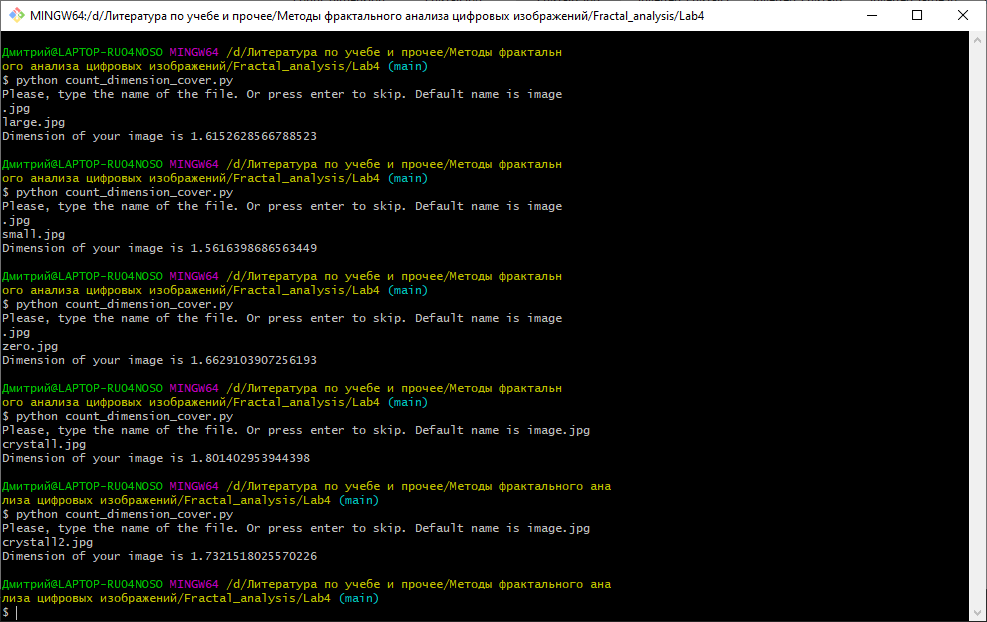
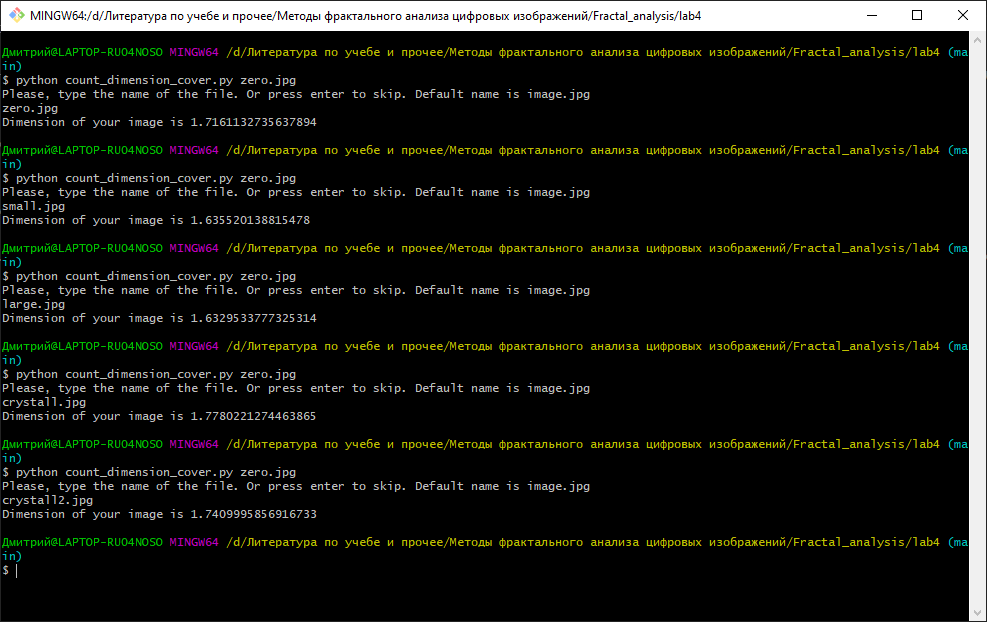
Add Lab5

diff --git a/Lab5/build_sergemtation.py b/Lab5/build_sergemtation.py
@@ -1,8 +1,13 @@
-from PIL import Image
+from PIL import Image, ImageDraw
 import numpy as np
 
-CELL_SIZE = 32
 delta = [1, 2]
+CELL_SIZE = 20
+
+def convert_image(image, converted_file_name):
+    black_and_white = image.convert('1')
+    black_and_white.save(converted_file_name)
+    return black_and_white
 
 def get_A(cell, ds):
     length, width = cell.size[0], cell.size[1]
@@ -29,35 +34,30 @@ def get_A(cell, ds):
     for d in ds:
         A[d] = (v[d] - v[d-1]) / 2
     
-    return A
+    return A[delta[-1]]
 
-
-def count_dimension_cover(image):
+def build_segmentation(image, save_file_name):
     length, width = image.size[0], image.size[1]
     cell_length, cell_width = length//CELL_SIZE, width//CELL_SIZE
-    A = np.zeros((cell_length, cell_width, len(delta)+1))
+    A = np.zeros((cell_length, cell_width))
     for i in range(0, cell_length):
         for j in range(0, cell_width):
             area = (i*CELL_SIZE, j*CELL_SIZE, (i+1)*CELL_SIZE, (j+1)*CELL_SIZE)
             cell = image.crop(area)
-            for d in delta:
-                A[i][j][d] = get_A(cell, delta)[d]
-
+            A[i][j] = get_A(cell, delta)
     
-    As = []
-    for d in delta:
-        s = 0
-        for i in range(0, cell_length):
-            for j in range(0, cell_width):
-                s += A[i][j][d]
-        As.append(s)
-        
-    return 2 - np.polyfit(np.log(As), np.log(delta), 1)[0] * (-1)
+    mean = np.mean(A)
 
-def convert_image(image, converted_file_name):
-    black_and_white = image.convert('L')
-    black_and_white.save(converted_file_name)
-    return black_and_white
+    new_image = Image.new("L", (cell_length*CELL_SIZE, cell_width*CELL_SIZE))
+    img1 = ImageDraw.Draw(new_image)
+
+    for i in range(0, cell_length):
+        for j in range(0, cell_width):
+            if A[i][j] < mean:
+                img1.rectangle([(i*CELL_SIZE, j*CELL_SIZE), ((i+1)*CELL_SIZE, (j+1)*CELL_SIZE)], fill = "white", outline="white")
+            else:
+                img1.rectangle([(i*CELL_SIZE, j*CELL_SIZE), ((i+1)*CELL_SIZE, (j+1)*CELL_SIZE)], fill = "black", outline="black")
+    new_image.save(save_file_name)
 
 
 if __name__ == '__main__':
@@ -71,10 +71,10 @@ if __name__ == '__main__':
             im = Image.open(name)
             # Переводим изображение в черно-белый вид
             im = convert_image(im, 'inverted_' + name)
-            dim = count_dimension_cover(im)
-            print(f"Dimension of your image is {dim}")
+            segmentated_name = "segmentated_" + name
+            build_segmentation(im, segmentated_name)
+            print(f"Sermentated image is built. File name is {segmentated_name}")
             finished = True
-
         except Exception as e:
             print(e)
             print("Could not find the file. Please try again.")

diff --git a/Lab5/README.md b/Lab5/README.md
@@ -1,0 +1,15 @@
+# Задание 5.
+Задание: Построить  сегментацию  изображения  на  основании  вычисления  площади  поверхности сегмента.
+
+Как запустить с консоли:
+* Перейти в папку, содержащую код программы и изображение
+
+* Набрать в консоли "python build_sergemtation.py"
+
+* Вам будет предложено ввести имя файла с изображением, находящегося в той же папке, что и код программы. Если Вы не введете никакого имени, программа по-умолчанию попытается найти файл с именем "image.jpg"
+
+* Изображение, которое Вы подаете на вход, может быть цветным. Программа сама инвертирует его в черно-белое изображение, сохранив его с названием "inverted_" + имя оригинального изображения
+
+* Далее будет создан файл "segmented_" + имя оригинального изображения
+
+* В папке приведены примеры работы программы. Для файлов "text.jpg", "text.png" и "zero.jpg" результат работы хранятся в файлах "segmented_text.jpg", "segmented_text.png" и "segmented_zero.jpg".

diff --git a/Lab4/README.md b/Lab4/README.md
@@ -14,12 +14,12 @@
 
 * Результаты работы программы для изображений zero.jpg, large.jpg, small.jpg, crystall.jpg и crystall2.jpg, находящихся в данной папке, можно найти на изображении results.png
 
-* zero.jpg размерность: 1.6629103907256193
+* zero.jpg размерность: 1.7161132735637894
 
-* small.jpg размерность: 1.5616398686563449
+* small.jpg размерность: 1.635520138815478
 
-* large.jpg размерность: 1.6152628566788523
+* large.jpg размерность: 1.6329533777325314
 
-* crystall.jpg размерность: 1.801402953944398
+* crystall.jpg размерность: 1.7780221274463865
 
-* crystall2.jpg размерность: 1.7321518025570226
+* crystall2.jpg размерность: 1.7409995856916733
